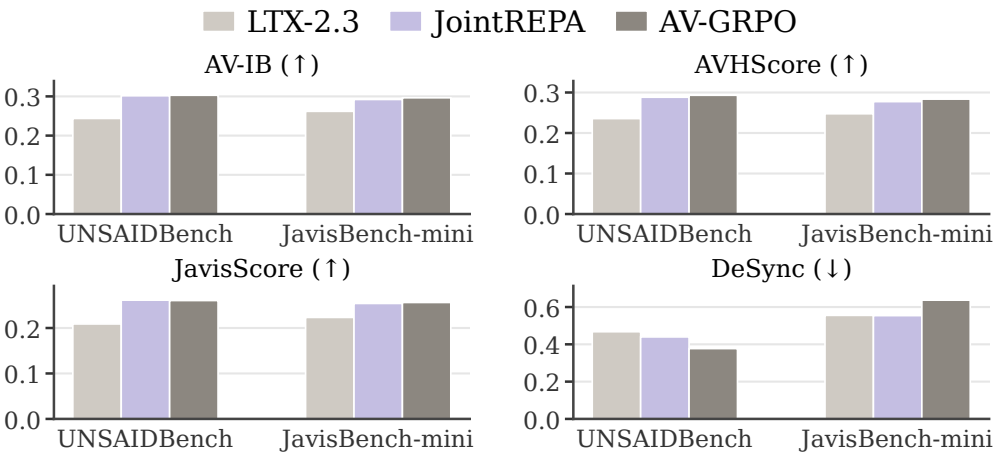
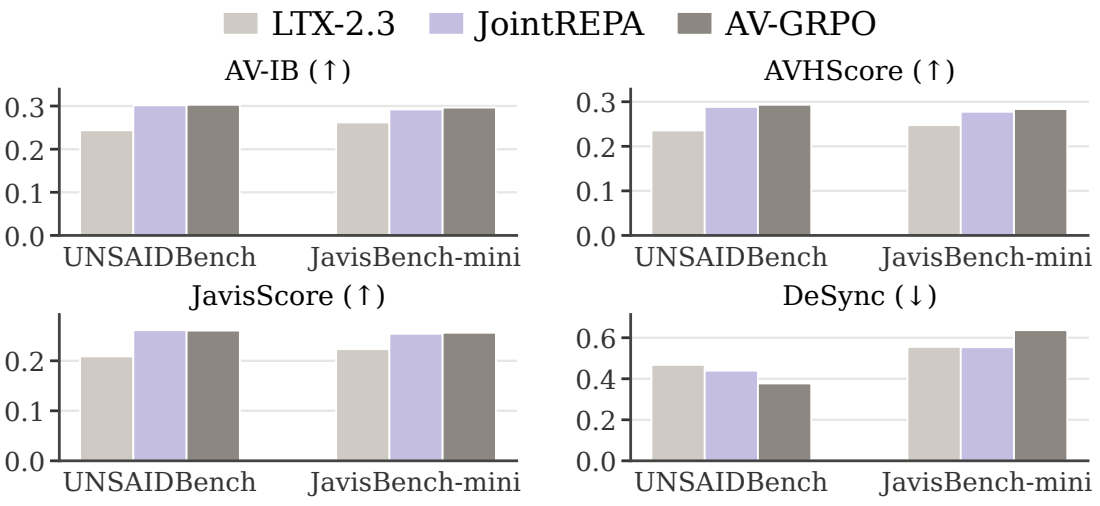
Drop Table 1; consistent figure / table widths (full or one-column), captions as wide as their item, aligned subsection headings, booktabs group rules

diff --git a/index.html b/index.html
@@ -105,7 +105,7 @@
     </div>
     <!--/ Abstract. -->
 
-    <figure class="paper-figure w85">
+    <figure class="paper-figure single">
       <img src="./static/images/paper/main.png" alt="Figure 1" loading="lazy"/>
       <figcaption class="paper-caption"><span class="cap-num">Figure 1.</span> <b>Intrinsic jointness.</b> Under detailed prompts, output consistency can arise from each modality independently following the text prompt alone, without audio&ndash;visual interaction. In contrast, underspecified prompts enable disentangling whether this consistency stems from mere prompt following or genuine audio&ndash;visual coordination. We define intrinsic jointness as the ability to maintain consistency under such underspecified prompts.</figcaption>
     </figure>
@@ -115,29 +115,27 @@
 <section class="section paper-section" id="analysis">
   <div class="container is-max-desktop">
     <h2 class="title is-3 has-text-centered">Diagnosing Semantic Jointness</h2>
+    <div class="paper-sub ">
     <h3 class="title is-4 paper-subtitle">Q1. Do existing T2AV models exhibit semantic jointness?</h3>
-
-    <figure class="paper-figure paper-table-figure">
-      <figcaption class="paper-caption"><span class="cap-num">Table 1.</span> <b>Simple diagnostic set for semantic jointness analysis.</b> Prompts at L1, L2, and L3 share the same template but differ in the level of semantic specificity.</figcaption>
-      <div class="paper-table-wrap"><table class="paper-table prompt-levels"><thead><tr class="last-head"><th>L1</th><th>L2</th><th>L3</th></tr></thead><tbody><tr class="tmpl"><td colspan="3"><i>&ldquo;A/An <span class="blank">&nbsp;&nbsp;&nbsp;&nbsp;</span> is vocalizing.&rdquo;</i></td></tr><tr><td rowspan="3" class="l1">animal</td><td>pet</td><td>dog / cat</td></tr><tr><td>farm animal</td><td>cow / sheep</td></tr><tr><td>wild animal</td><td>lion / wolf</td></tr><tr class="tmpl"><td colspan="3"><i>&ldquo;A person is playing a <span class="blank">&nbsp;&nbsp;&nbsp;&nbsp;</span>.&rdquo;</i></td></tr><tr><td rowspan="3" class="l1">musical instrument</td><td>string inst.</td><td>guitar / violin</td></tr><tr><td>percussion inst.</td><td>drum / xylophone</td></tr><tr><td>wind inst.</td><td>flute / trumpet</td></tr><tr class="tmpl"><td colspan="3"><i>&ldquo;A/An <span class="blank">&nbsp;&nbsp;&nbsp;&nbsp;</span> is speaking.&rdquo;</i></td></tr><tr><td rowspan="2" class="l1">person</td><td>man</td><td>adult man / young boy</td></tr><tr><td>woman</td><td>adult woman / young girl</td></tr></tbody></table></div>
-    </figure>
-
     <figure class="paper-figure ">
       <img src="./static/images/paper/prompt_specificity.png" alt="Figure 2" loading="lazy"/>
       <figcaption class="paper-caption"><span class="cap-num">Figure 2.</span> <b>Q1. Semantic jointness under varying prompt specificity.</b> We evaluate semantic consistency using three metrics (Agreement, AV-IB, and AVHScore) across different levels of prompt specificity. All metrics generally decrease as prompt specificity decreases (L3 &rarr; L2 &rarr; L1). At L1, Agreement scores for most models are close to the shuffled-pair baseline (marked by &times;), obtained by randomly pairing audio and video generated with different seeds under the same prompt. This suggests that current T2AV models exhibit limited semantic jointness.</figcaption>
     </figure>
+    </div>
+    <div class="paper-sub ">
     <h3 class="title is-4 paper-subtitle">Q2. Does limited semantic jointness persist in internal representations?</h3>
-
     <figure class="paper-figure ">
       <img src="./static/images/paper/representation_probe.png" alt="Figure 3" loading="lazy"/>
       <figcaption class="paper-caption"><span class="cap-num">Figure 3.</span> <b>Q2. Semantic jointness in internal representations.</b> We evaluate probe agreement across Transformer blocks (horizontal axis) at different generation steps and levels of prompt specificity. Probe agreement generally decreases as prompt specificity decreases (L3 &rarr; L2 &rarr; L1). At L1, probe agreement is close to the shuffled-pair baseline (dashed line). This suggests that limited semantic jointness is also reflected in the models' internal representations.</figcaption>
     </figure>
+    </div>
+    <div class="paper-sub ">
     <h3 class="title is-4 paper-subtitle">Q3. How effective is AV-attention for semantic coordination?</h3>
-
     <figure class="paper-figure ">
       <img src="./static/images/paper/avcut_follow.png" alt="Figure 4" loading="lazy"/>
       <figcaption class="paper-caption"><span class="cap-num">Figure 4.</span> <b>Q3. Analysis of the role of AV-attention in semantic coordination.</b> (a) Semantic consistency with and without AV-attention. Blocking AV-attention causes substantial drops across all metrics in the LTX family, while inducing only minor changes in the JavisDiT family. (b) Semantic identity following under asymmetric prompting (L3 for one modality, L1 for the other). For both model families, the L1-conditioned modality <i>m</i><sub>L1</sub> follows the target identity specified <b><i>z</i></b><sup>L3</sup> substantially less reliably than under symmetric L3 prompting (both-L3). Together, these findings suggest that AV-attention is not effectively utilized for semantic coordination.</figcaption>
     </figure>
+    </div>
   </div>
 </section>
 
@@ -145,9 +143,9 @@
   <div class="container is-max-desktop">
     <h2 class="title is-3 has-text-centered">Method</h2>
 
-    <figure class="paper-figure w55">
+    <figure class="paper-figure method">
       <img src="./static/images/paper/method.png" alt="Figure 5" loading="lazy"/>
-      <figcaption class="paper-caption"><span class="cap-num">Figure 5.</span> <b>Overview of <span class="dnerf">JointREPA</span>.</b> <span class="dnerf">JointREPA</span> aligns each modality's features with pretrained encoder representations from both its own modality (unimodal alignment) and the other modality (cross-modal alignment).</figcaption>
+      <figcaption class="paper-caption"><span class="cap-num">Figure 5.</span> <b>Overview of JointREPA.</b> JointREPA aligns each modality's features with pretrained encoder representations from both its own modality (unimodal alignment) and the other modality (cross-modal alignment).</figcaption>
     </figure>
   </div>
 </section>
@@ -155,18 +153,20 @@
 <section class="section paper-section" id="results">
   <div class="container is-max-desktop">
     <h2 class="title is-3 has-text-centered">Main Results</h2>
+    <div class="paper-sub ">
     <h3 class="title is-4 paper-subtitle">Quantitative results</h3>
-
-    <figure class="paper-figure paper-table-figure">
-      <figcaption class="paper-caption"><span class="cap-num">Table 2.</span> <b>Main results on UNSAIDBench, JavisBench-mini, and VerseBench.</b> We apply <span class="dnerf">JointREPA</span> to JavisDiT++ and LTX-2.3 and evaluate AV-Consistency, AV-Synchrony, Text-Consistency, and AV-Quality on three benchmarks. <span class="dnerf">JointREPA</span> consistently improves AV-Consistency across all benchmarks and backbone models.</figcaption>
-      <div class="paper-table-wrap"><table class="paper-table"><thead><tr><th></th><th></th><th colspan="2" class="cmid">AV-Consistency</th><th colspan="2" class="cmid">AV-Synchrony</th><th colspan="4" class="cmid">Text-Consistency</th><th colspan="2" class="cmid">AV-Quality</th></tr><tr class="last-head"><th>Model</th><th>Size</th><th>AV-IB &uarr;</th><th>AVHScore &uarr;</th><th>JavisScore &uarr;</th><th>DeSync &darr;</th><th>TV-IB &uarr;</th><th>TA-IB &uarr;</th><th>CLIP &uarr;</th><th>CLAP &uarr;</th><th>VQ &uarr;</th><th>AQ &uarr;</th></tr></thead><tbody><tr class="rule tab-sec"><td colspan="12"><b>UNSAIDBench</b></td></tr><tr class="rule"><td>JavisDiT++</td><td>2.1B</td><td>0.176</td><td>0.163</td><td>0.133</td><td>0.815</td><td><b>0.180</b></td><td>0.138</td><td><b>0.313</b></td><td>0.343</td><td>1.455</td><td>4.595</td></tr><tr class="ours"><td>&emsp;+ <b><span class="dnerf">JointREPA</span></b></td><td>2.1B</td><td><b>0.207</b></td><td><b>0.196</b></td><td><b>0.164</b></td><td><b>0.804</b></td><td>0.174</td><td><b>0.163</b></td><td>0.310</td><td><b>0.369</b></td><td><b>1.655</b></td><td><b>4.628</b></td></tr><tr class="rule"><td>LTX-2.3</td><td>22B</td><td>0.244</td><td>0.236</td><td>0.209</td><td>0.468</td><td><b>0.173</b></td><td>0.101</td><td>0.298</td><td>0.287</td><td><b>2.354</b></td><td><b>5.050</b></td></tr><tr class="ours"><td>&emsp;+ <b><span class="dnerf">JointREPA</span></b></td><td>22B</td><td><b>0.302</b></td><td><b>0.288</b></td><td><b>0.261</b></td><td><b>0.440</b></td><td>0.169</td><td><b>0.124</b></td><td>0.298</td><td><b>0.327</b></td><td>2.256</td><td>4.852</td></tr><tr class="rule tab-sec"><td colspan="12"><b>JavisBench-mini</b></td></tr><tr class="rule"><td>JavisDiT++</td><td>2.1B</td><td>0.200</td><td>0.182</td><td>0.157</td><td>0.784</td><td><b>0.283</b></td><td>0.170</td><td>0.316</td><td>0.429</td><td>1.538</td><td><b>4.987</b></td></tr><tr class="ours"><td>&emsp;+ <b><span class="dnerf">JointREPA</span></b></td><td>2.1B</td><td><b>0.221</b></td><td><b>0.204</b></td><td><b>0.179</b></td><td><b>0.782</b></td><td>0.278</td><td><b>0.187</b></td><td>0.316</td><td><b>0.447</b></td><td><b>1.715</b></td><td>4.917</td></tr><tr class="rule"><td>LTX-2.3</td><td>22B</td><td>0.249</td><td>0.238</td><td>0.214</td><td><b>0.555</b></td><td><b>0.280</b></td><td>0.171</td><td><b>0.306</b></td><td>0.412</td><td><b>2.458</b></td><td><b>5.348</b></td></tr><tr class="ours"><td>&emsp;+ <b><span class="dnerf">JointREPA</span></b></td><td>22B</td><td><b>0.285</b></td><td><b>0.271</b></td><td><b>0.247</b></td><td>0.575</td><td>0.277</td><td><b>0.186</b></td><td>0.304</td><td><b>0.433</b></td><td>2.339</td><td>5.157</td></tr><tr class="rule tab-sec"><td colspan="12"><b>VerseBench</b></td></tr><tr class="rule"><td>JavisDiT++</td><td>2.1B</td><td>0.213</td><td>0.201</td><td>0.172</td><td><b>0.905</b></td><td><b>0.182</b></td><td>0.189</td><td><b>0.325</b></td><td>0.479</td><td>1.580</td><td><b>4.280</b></td></tr><tr class="ours"><td>&emsp;+ <b><span class="dnerf">JointREPA</span></b></td><td>2.1B</td><td><b>0.237</b></td><td><b>0.223</b></td><td><b>0.195</b></td><td>0.958</td><td>0.175</td><td><b>0.216</b></td><td>0.323</td><td><b>0.489</b></td><td><b>1.850</b></td><td>4.260</td></tr><tr class="rule"><td>LTX-2.3</td><td>22B</td><td>0.332</td><td>0.317</td><td>0.287</td><td>0.284</td><td><b>0.167</b></td><td>0.191</td><td>0.317</td><td>0.447</td><td><b>2.760</b></td><td><b>5.004</b></td></tr><tr class="ours"><td>&emsp;+ <b><span class="dnerf">JointREPA</span></b></td><td>22B</td><td><b>0.369</b></td><td><b>0.351</b></td><td><b>0.322</b></td><td><b>0.241</b></td><td>0.165</td><td><b>0.211</b></td><td>0.317</td><td><b>0.472</b></td><td>2.677</td><td>4.809</td></tr></tbody></table></div>
+    <figure class="paper-figure paper-table-figure ">
+      <figcaption class="paper-caption"><span class="cap-num">Table 2.</span> <b>Main results on UNSAIDBench, JavisBench-mini, and VerseBench.</b> We apply JointREPA to JavisDiT++ and LTX-2.3 and evaluate AV-Consistency, AV-Synchrony, Text-Consistency, and AV-Quality on three benchmarks. JointREPA consistently improves AV-Consistency across all benchmarks and backbone models.</figcaption>
+      <div class="paper-table-wrap"><table class="paper-table"><thead><tr><th></th><th></th><th colspan="2" class="cmid">AV-Consistency</th><th colspan="2" class="cmid">AV-Synchrony</th><th colspan="4" class="cmid">Text-Consistency</th><th colspan="2" class="cmid">AV-Quality</th></tr><tr class="last-head"><th>Model</th><th>Size</th><th>AV-IB &uarr;</th><th>AVHScore &uarr;</th><th>JavisScore &uarr;</th><th>DeSync &darr;</th><th>TV-IB &uarr;</th><th>TA-IB &uarr;</th><th>CLIP &uarr;</th><th>CLAP &uarr;</th><th>VQ &uarr;</th><th>AQ &uarr;</th></tr></thead><tbody><tr class="rule tab-sec"><td colspan="12"><b>UNSAIDBench</b></td></tr><tr class="rule"><td>JavisDiT++</td><td>2.1B</td><td>0.176</td><td>0.163</td><td>0.133</td><td>0.815</td><td><b>0.180</b></td><td>0.138</td><td><b>0.313</b></td><td>0.343</td><td>1.455</td><td>4.595</td></tr><tr class="ours"><td>&emsp;+ <b>JointREPA</b></td><td>2.1B</td><td><b>0.207</b></td><td><b>0.196</b></td><td><b>0.164</b></td><td><b>0.804</b></td><td>0.174</td><td><b>0.163</b></td><td>0.310</td><td><b>0.369</b></td><td><b>1.655</b></td><td><b>4.628</b></td></tr><tr class="rule"><td>LTX-2.3</td><td>22B</td><td>0.244</td><td>0.236</td><td>0.209</td><td>0.468</td><td><b>0.173</b></td><td>0.101</td><td>0.298</td><td>0.287</td><td><b>2.354</b></td><td><b>5.050</b></td></tr><tr class="ours"><td>&emsp;+ <b>JointREPA</b></td><td>22B</td><td><b>0.302</b></td><td><b>0.288</b></td><td><b>0.261</b></td><td><b>0.440</b></td><td>0.169</td><td><b>0.124</b></td><td>0.298</td><td><b>0.327</b></td><td>2.256</td><td>4.852</td></tr><tr class="rule tab-sec"><td colspan="12"><b>JavisBench-mini</b></td></tr><tr class="rule"><td>JavisDiT++</td><td>2.1B</td><td>0.200</td><td>0.182</td><td>0.157</td><td>0.784</td><td><b>0.283</b></td><td>0.170</td><td>0.316</td><td>0.429</td><td>1.538</td><td><b>4.987</b></td></tr><tr class="ours"><td>&emsp;+ <b>JointREPA</b></td><td>2.1B</td><td><b>0.221</b></td><td><b>0.204</b></td><td><b>0.179</b></td><td><b>0.782</b></td><td>0.278</td><td><b>0.187</b></td><td>0.316</td><td><b>0.447</b></td><td><b>1.715</b></td><td>4.917</td></tr><tr class="rule"><td>LTX-2.3</td><td>22B</td><td>0.249</td><td>0.238</td><td>0.214</td><td><b>0.555</b></td><td><b>0.280</b></td><td>0.171</td><td><b>0.306</b></td><td>0.412</td><td><b>2.458</b></td><td><b>5.348</b></td></tr><tr class="ours"><td>&emsp;+ <b>JointREPA</b></td><td>22B</td><td><b>0.285</b></td><td><b>0.271</b></td><td><b>0.247</b></td><td>0.575</td><td>0.277</td><td><b>0.186</b></td><td>0.304</td><td><b>0.433</b></td><td>2.339</td><td>5.157</td></tr><tr class="rule tab-sec"><td colspan="12"><b>VerseBench</b></td></tr><tr class="rule"><td>JavisDiT++</td><td>2.1B</td><td>0.213</td><td>0.201</td><td>0.172</td><td><b>0.905</b></td><td><b>0.182</b></td><td>0.189</td><td><b>0.325</b></td><td>0.479</td><td>1.580</td><td><b>4.280</b></td></tr><tr class="ours"><td>&emsp;+ <b>JointREPA</b></td><td>2.1B</td><td><b>0.237</b></td><td><b>0.223</b></td><td><b>0.195</b></td><td>0.958</td><td>0.175</td><td><b>0.216</b></td><td>0.323</td><td><b>0.489</b></td><td><b>1.850</b></td><td>4.260</td></tr><tr class="rule"><td>LTX-2.3</td><td>22B</td><td>0.332</td><td>0.317</td><td>0.287</td><td>0.284</td><td><b>0.167</b></td><td>0.191</td><td>0.317</td><td>0.447</td><td><b>2.760</b></td><td><b>5.004</b></td></tr><tr class="ours"><td>&emsp;+ <b>JointREPA</b></td><td>22B</td><td><b>0.369</b></td><td><b>0.351</b></td><td><b>0.322</b></td><td><b>0.241</b></td><td>0.165</td><td><b>0.211</b></td><td>0.317</td><td><b>0.472</b></td><td>2.677</td><td>4.809</td></tr></tbody></table></div>
     </figure>
+    </div>
+    <div class="paper-sub ">
     <h3 class="title is-4 paper-subtitle">Qualitative results</h3>
-
     <figure class="paper-figure ">
       <img src="./static/images/paper/qual.jpg" alt="Figure 6" loading="lazy"/>
-      <figcaption class="paper-caption"><span class="cap-num">Figure 6.</span> <b>Qualitative results on UNSAIDBench.</b> Generated video frames and audio spectrograms from the base model (top) and its <span class="dnerf">JointREPA</span> variant (bottom). Given an <span class="hl-purple">underspecified shared factor</span> per prompt, the base model realizes different semantic identities in audio and video, whereas <span class="dnerf">JointREPA</span> converges on the same identity.</figcaption>
+      <figcaption class="paper-caption"><span class="cap-num">Figure 6.</span> <b>Qualitative results on UNSAIDBench.</b> Generated video frames and audio spectrograms from the base model (top) and its JointREPA variant (bottom). Given an <span class="hl-purple">underspecified shared factor</span> per prompt, the base model realizes different semantic identities in audio and video, whereas JointREPA converges on the same identity.</figcaption>
     </figure>
+    </div>
   </div>
 </section>
 
@@ -176,7 +176,7 @@
 
     <div class="content has-text-justified">
       <p>UNSAIDBench (<b>UN</b>derspecified <b>S</b>emantics in <b>A</b>udio-v<b>ID</b>eo generation) adapts the complex, real-world prompts of JavisBench to inject one underspecified shared factor per prompt. Following the AudioSet ontology, fine-grained event identities are abstracted into their parent categories (for example, &ldquo;harp&rdquo; becomes &ldquo;musical instrument&rdquo; and &ldquo;cat&rdquo; becomes &ldquo;pet&rdquo;) while the surrounding context is kept intact. Each stream can resolve the underspecified factor on its own; intrinsic jointness requires both to resolve it the same way. The original JavisBench caption is shown in gray under each prompt.</p>
-      <p>Each panel shows a clip from the base model (left) and from the same model post-trained with <span class="dnerf">JointREPA</span> (right). All clips have sound. <i class="fas fa-volume-up"></i> Turn on audio; starting one clip pauses the others.</p>
+      <p>Each panel shows a clip from the base model (left) and from the same model post-trained with JointREPA (right). All clips have sound. <i class="fas fa-volume-up"></i> Turn on audio; starting one clip pauses the others.</p>
     </div>
     
     <h3 class="title is-4">LTX-2.3</h3>
@@ -333,30 +333,34 @@
 <section class="section paper-section" id="additional">
   <div class="container is-max-desktop">
     <h2 class="title is-3 has-text-centered">Additional Analysis</h2>
+    <div class="paper-sub single">
     <h3 class="title is-4 paper-subtitle">Ablations on fine-tuning loss</h3>
-
-    <figure class="paper-figure paper-table-figure">
-      <figcaption class="paper-caption"><span class="cap-num">Table 3.</span> <b>Ablations of fine-tuning losses on JavisDiT++.</b> While the FM loss yields modest improvements and unimodal REPA provides larger gains, <span class="dnerf">JointREPA</span> achieves the best performance.</figcaption>
-      <div class="paper-table-wrap"><table class="paper-table"><thead><tr><th></th><th colspan="2" class="cmid">AV-Consistency</th><th colspan="2" class="cmid">AV-Synchrony</th></tr><tr class="last-head"><th>Model</th><th>AV-IB&uarr;</th><th>AVHScore&uarr;</th><th>JavisScore&uarr;</th><th>DeSync&darr;</th></tr></thead><tbody><tr class="rule tab-sec"><td colspan="5"><b>UNSAIDBench</b></td></tr><tr class="rule"><td>JavisDiT++</td><td>0.176</td><td>0.163</td><td>0.133</td><td><u>0.815</u></td></tr><tr><td>&emsp;+ FM loss</td><td>0.181</td><td>0.171</td><td>0.141</td><td>0.826</td></tr><tr><td>&emsp;+ Unimodal REPA</td><td><u>0.199</u></td><td><u>0.188</u></td><td><u>0.158</u></td><td>0.832</td></tr><tr class="ours"><td>&emsp;+ <b><span class="dnerf">JointREPA</span></b> (Ours)</td><td><b>0.207</b></td><td><b>0.196</b></td><td><b>0.164</b></td><td><b>0.804</b></td></tr><tr class="rule"><td>&emsp;+ BEATs <span class="dnerf">JointREPA</span></td><td>0.213</td><td>0.201</td><td>0.170</td><td>0.818</td></tr><tr class="rule tab-sec"><td colspan="5"><b>JavisBench-mini</b></td></tr><tr class="rule"><td>JavisDiT++</td><td>0.200</td><td>0.182</td><td>0.157</td><td>0.784</td></tr><tr><td>&emsp;+ FM loss</td><td>0.204</td><td>0.187</td><td>0.160</td><td><b>0.780</b></td></tr><tr><td>&emsp;+ Unimodal REPA</td><td><u>0.215</u></td><td><u>0.199</u></td><td><u>0.174</u></td><td>0.787</td></tr><tr class="ours"><td>&emsp;+ <b><span class="dnerf">JointREPA</span></b> (Ours)</td><td><b>0.221</b></td><td><b>0.204</b></td><td><b>0.179</b></td><td><u>0.782</u></td></tr><tr class="rule"><td>&emsp;+ BEATs <span class="dnerf">JointREPA</span></td><td>0.221</td><td>0.204</td><td>0.179</td><td>0.772</td></tr></tbody></table></div>
+    <figure class="paper-figure paper-table-figure single">
+      <figcaption class="paper-caption"><span class="cap-num">Table 3.</span> <b>Ablations of fine-tuning losses on JavisDiT++.</b> While the FM loss yields modest improvements and unimodal REPA provides larger gains, JointREPA achieves the best performance.</figcaption>
+      <div class="paper-table-wrap"><table class="paper-table"><thead><tr><th></th><th colspan="2" class="cmid">AV-Consistency</th><th colspan="2" class="cmid">AV-Synchrony</th></tr><tr class="last-head"><th>Model</th><th>AV-IB&uarr;</th><th>AVHScore&uarr;</th><th>JavisScore&uarr;</th><th>DeSync&darr;</th></tr></thead><tbody><tr class="rule tab-sec"><td colspan="5"><b>UNSAIDBench</b></td></tr><tr class="rule"><td>JavisDiT++</td><td>0.176</td><td>0.163</td><td>0.133</td><td><u>0.815</u></td></tr><tr><td>&emsp;+ FM loss</td><td>0.181</td><td>0.171</td><td>0.141</td><td>0.826</td></tr><tr><td>&emsp;+ Unimodal REPA</td><td><u>0.199</u></td><td><u>0.188</u></td><td><u>0.158</u></td><td>0.832</td></tr><tr class="ours"><td>&emsp;+ <b>JointREPA</b> (Ours)</td><td><b>0.207</b></td><td><b>0.196</b></td><td><b>0.164</b></td><td><b>0.804</b></td></tr><tr class="rule"><td>&emsp;+ BEATs JointREPA</td><td>0.213</td><td>0.201</td><td>0.170</td><td>0.818</td></tr><tr class="rule tab-sec"><td colspan="5"><b>JavisBench-mini</b></td></tr><tr class="rule"><td>JavisDiT++</td><td>0.200</td><td>0.182</td><td>0.157</td><td>0.784</td></tr><tr><td>&emsp;+ FM loss</td><td>0.204</td><td>0.187</td><td>0.160</td><td><b>0.780</b></td></tr><tr><td>&emsp;+ Unimodal REPA</td><td><u>0.215</u></td><td><u>0.199</u></td><td><u>0.174</u></td><td>0.787</td></tr><tr class="ours"><td>&emsp;+ <b>JointREPA</b> (Ours)</td><td><b>0.221</b></td><td><b>0.204</b></td><td><b>0.179</b></td><td><u>0.782</u></td></tr><tr class="rule"><td>&emsp;+ BEATs JointREPA</td><td>0.221</td><td>0.204</td><td>0.179</td><td>0.772</td></tr></tbody></table></div>
     </figure>
+    </div>
+    <div class="paper-sub single">
     <h3 class="title is-4 paper-subtitle">Ablations on hyperparameter selection</h3>
-
-    <figure class="paper-figure w60">
+    <figure class="paper-figure single">
       <img src="./static/images/paper/lambda_cross.png" alt="Figure 7" loading="lazy"/>
       <figcaption class="paper-caption"><span class="cap-num">Figure 7.</span> <b>Ablation on the cross-modal alignment weight &lambda;<sub>cross</sub></b>. All non-zero weights consistently improve over &lambda;<sub>cross</sub>=0, demonstrating robustness to &lambda;<sub>cross</sub>.</figcaption>
     </figure>
+    </div>
+    <div class="paper-sub single">
     <h3 class="title is-4 paper-subtitle">Comparison with other post-training methods</h3>
-
-    <figure class="paper-figure w60">
+    <figure class="paper-figure single">
       <img src="./static/images/paper/av_grpo.png" alt="Figure 8" loading="lazy"/>
-      <figcaption class="paper-caption"><span class="cap-num">Figure 8.</span> <b>Comparison of <span class="dnerf">JointREPA</span> and AV-GRPO on LTX-2.3.</b> Despite relying on lightweight LoRA-based representation alignment rather than full-model reinforcement learning, <span class="dnerf">JointREPA</span> achieves comparable results with AV-GRPO.</figcaption>
+      <figcaption class="paper-caption"><span class="cap-num">Figure 8.</span> <b>Comparison of JointREPA and AV-GRPO on LTX-2.3.</b> Despite relying on lightweight LoRA-based representation alignment rather than full-model reinforcement learning, JointREPA achieves comparable results with AV-GRPO.</figcaption>
     </figure>
+    </div>
+    <div class="paper-sub ">
     <h3 class="title is-4 paper-subtitle">Revisiting Q1, Q2, and Q3</h3>
-
     <figure class="paper-figure ">
       <img src="./static/images/paper/revisit.png" alt="Figure 9" loading="lazy"/>
-      <figcaption class="paper-caption"><span class="cap-num">Figure 9.</span> <b>Revisiting Q1, Q2 and Q3 after applying <span class="dnerf">JointREPA</span>.</b> (a) Q1. <span class="dnerf">JointREPA</span> improves all jointness metrics across specificity levels, peaking at L1—widening the Agreement margin over the shuffled baseline (0.11 &rarr; 0.17) and achieving larger average gains in AV-IB and AVHScore at lower specificity (L3 &lt; L2 &lt; L1). (b) Q2. Intermediate representation probing reveals a pronounced increase in L1 Agreement around the middle layers where <span class="dnerf">JointREPA</span> is applied. (c) <span class="dnerf">JointREPA</span> increases the follow rate under asymmetric prompting (relative to Both-L3) from 26% to 47% and from 70% to 75%. Together, these findings demonstrate that <span class="dnerf">JointREPA</span> effectively improves semantic jointness.</figcaption>
+      <figcaption class="paper-caption"><span class="cap-num">Figure 9.</span> <b>Revisiting Q1, Q2 and Q3 after applying JointREPA.</b> (a) Q1. JointREPA improves all jointness metrics across specificity levels, peaking at L1—widening the Agreement margin over the shuffled baseline (0.11 &rarr; 0.17) and achieving larger average gains in AV-IB and AVHScore at lower specificity (L3 &lt; L2 &lt; L1). (b) Q2. Intermediate representation probing reveals a pronounced increase in L1 Agreement around the middle layers where JointREPA is applied. (c) JointREPA increases the follow rate under asymmetric prompting (relative to Both-L3) from 26% to 47% and from 70% to 75%. Together, these findings demonstrate that JointREPA effectively improves semantic jointness.</figcaption>
     </figure>
+    </div>
   </div>
 </section>
 

diff --git a/static/css/demo.css b/static/css/demo.css
@@ -12,16 +12,23 @@ html { scroll-behavior: smooth; }
   padding-bottom: 2rem;
 }
 
+/* Two widths, as in the two-column paper: full container width for figure* / table* floats, one shared narrower
+   width for one-column floats (Fig. 1, Table 3, Figs. 7, 8); the tall method figure a bit narrower. The caption
+   always spans exactly the width of its figure / table. */
 .paper-figure {
-  margin: 0.75rem auto 2rem;
+  margin: 0.75rem auto 2.25rem;
   width: 100%;
 }
-.paper-figure.w85 { width: 72%; }     /* Fig. 1 (~650 px) */
-.paper-figure.w55 { width: 48%; }     /* method figure (~440 px) */
-.paper-figure.w60 { width: 55%; }     /* single-column plots (Figs. 7, 8) */
+.paper-figure.single { width: 62%; }     /* ~595 px on desktop */
+.paper-figure.method { width: 50%; }     /* ~480 px */
+
+/* subsection = heading + item; a one-column item's block takes the item width so the heading lines up with it */
+.paper-sub { margin: 0 auto; width: 100%; }
+.paper-sub.single { width: 62%; }
+.paper-sub.single .paper-figure.single { width: 100%; }
 
 @media screen and (max-width: 768px) {
-  .paper-figure.w85, .paper-figure.w55, .paper-figure.w60 { width: 100%; }
+  .paper-figure.single, .paper-figure.method, .paper-sub.single { width: 100%; }
 }
 
 .paper-figure img {
@@ -71,6 +78,7 @@ h3.title.is-4.paper-subtitle {
 }
 table.paper-table {
   border-collapse: collapse;
+  width: 100%;                 /* same width as the caption above it */
   margin: 0 auto;
   font-size: 0.82rem;
   font-variant-numeric: tabular-nums;
@@ -91,7 +99,10 @@ table.paper-table thead tr:first-child th { border-top: 2px solid #363636; }
 table.paper-table tr.last-head th { border-bottom: 1px solid #363636; }
 table.paper-table tbody tr:last-child td { border-bottom: 2px solid #363636; }
 table.paper-table tr.rule td { border-top: 1px solid #363636; }
-table.paper-table th.cmid { border-bottom: 1px solid #b5b5b5; }
+/* booktabs \cmidrule(lr): a rule under the group header, trimmed at both ends so neighbouring groups stay apart */
+table.paper-table th.cmid {
+  background: linear-gradient(#4a4a4a, #4a4a4a) center bottom / calc(100% - 14px) 1px no-repeat;
+}
 table.paper-table tr.ours td { background: rgb(242, 242, 255); }
 table.paper-table tr.tab-sec td { text-align: center; }
 
